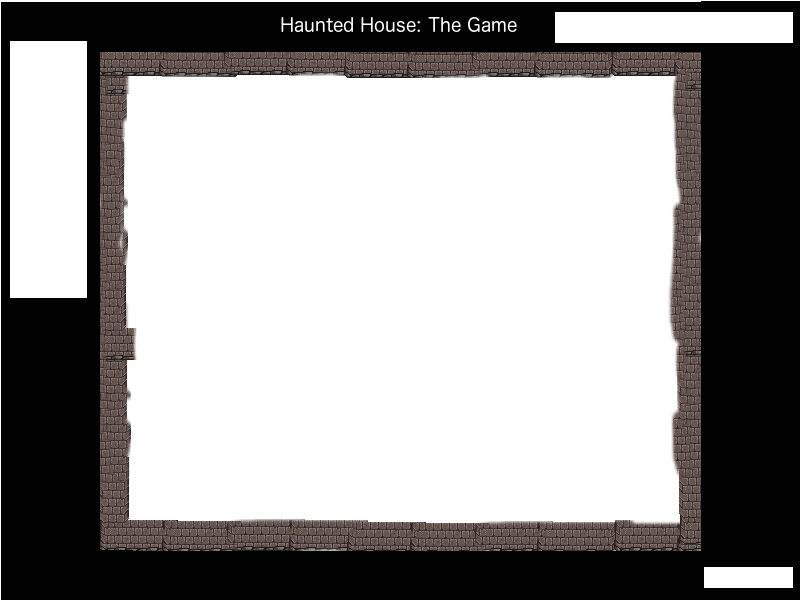
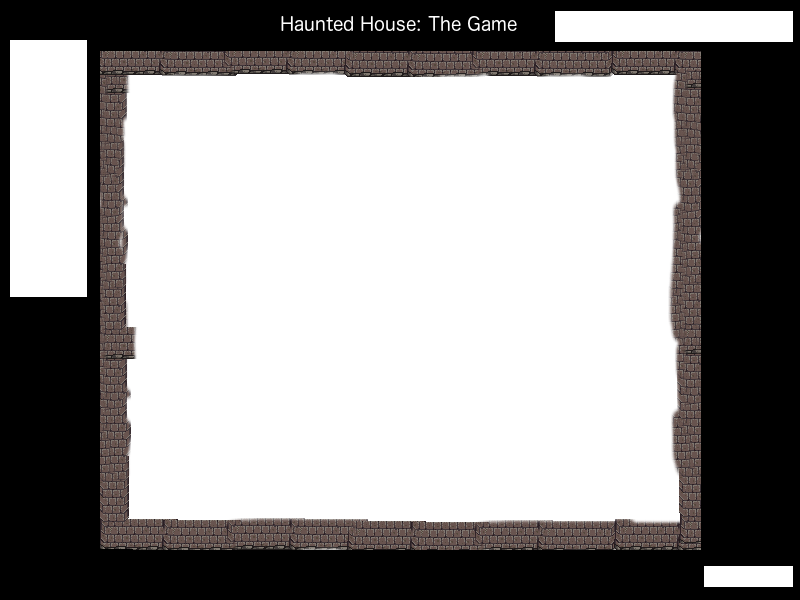
Small minor changes

Changed region(s): [[0.0, 0.0, 0.9688, 0.93]]

diff --git a/hh-game/js/states/Main.js b/hh-game/js/states/Main.js
@@ -44,13 +44,14 @@ export default class Main extends Phaser.State {
         this.player.spawn();
         this.game.player = this.player;
         this.game.add.sprite(0, 0, 'room-0');
-        this.game.add.text(715, 567, VERSION, {font: "20px Arial"});
-        this.speedText = this.game.add.text(25, 65, "S: "+this.player.speed, {font: "20px Arial"});
-        this.displayText = this.game.add.text(25, 115, "H: "+this.player.health, {font: "20px Arial"});
-        this.invText = this.game.add.text(25, 165, this.player.inventoryDisplay, {font: "20px Arial"});
+        this.game.add.text(715, 563, VERSION, {font: "20px Verdana"});
+        this.speedText = this.game.add.text(20, 65, "S: "+this.player.speed, {font: "20px Verdana"});
+        this.displayText = this.game.add.text(20, 115, "H: "+this.player.health, {font: "20px Verdana"});
+        this.inv = this.game.add.text(20, 150, "inv", {font: "20px Verdana"});
+        this.invText = this.game.add.text(20, 170, this.player.inventoryDisplay, {font: "20px Verdana"});
         this.currentRoomJson = this.rooms[0];
         this.room = new Room(this.game, this.currentRoomJson, this.player, null);
-        this.roomDisplay = this.game.add.text(560, 15, this.currentRoomJson.name, {font: "20px Arial"});
+        this.roomDisplay = this.game.add.text(560, 10, this.currentRoomJson.name, {font: "20px Verdana"});
         this.setRoomText(this.currentRoomJson.name);
         this.game.physics.arcade.enable(this.playArea);
     }
@@ -126,7 +127,7 @@ export default class Main extends Phaser.State {
         this.room.showText(this.currentRoomJson.name);
 
         if(this.currentRoomJson.name === 'Library'){
-            var text = this.game.add.text(175, 500, "You hear books talking to you...", { font: "18px Arial", fill: "#ffffff", align: "center" });
+            var text = this.game.add.text(175, 500, "You hear books talking to you...", { font: "18px Verdana", fill: "#ffffff", align: "center" });
             text.anchor.set(0.15);
 
             // this.game.add.tween(text).to({y: 0}, 1500, Phaser.Easing.Linear.None, true);    //this to move the text to the top and fades
@@ -134,7 +135,7 @@ export default class Main extends Phaser.State {
         }
 
         if(this.currentRoomJson.name === 'Basement Exit'){
-            var text = this.game.add.text(175, 500, "Enter the chest if you dare...", { font: "18px Arial", fill: "#ffffff", align: "center" });
+            var text = this.game.add.text(175, 500, "Enter the chest if you dare...", { font: "18px Verdana", fill: "#ffffff", align: "center" });
             text.anchor.set(0.15);
 
             // this.game.add.tween(text).to({y: 0}, 1500, Phaser.Easing.Linear.None, true);    //this to move the text to the top and fades
@@ -146,7 +147,7 @@ export default class Main extends Phaser.State {
     setRoomText(){
         this.roomDisplay.setText(this.currentRoomJson.name);
         this.roomDisplay.fontSize = 25;
-        this.roomDisplay.font = "Arial"
+        this.roomDisplay.font = "Verdana"
 
         this.displayText.setText("H: "+this.player.health);
         this.invText.setText(this.player.inventoryDisplay);

diff --git a/hh-game/js/states/Preload.js b/hh-game/js/states/Preload.js
@@ -8,7 +8,7 @@ class Preload extends Phaser.State {
         // Render loading screen
         this.loadingScreenImage = this.game.add.sprite(this.game.world.centreX, this.game.world.centreY, "title-screen-800-600");
         this.loadingScreenImage.anchor.setTo(0);
-        this.loadingText = this.game.add.text(this.game.world.centerX+100, this.game.world.centerY+200, "Loading...", { font: "25px Arial", fill: "#ffffff", align: "center" });
+        this.loadingText = this.game.add.text(this.game.world.centerX+100, this.game.world.centerY+200, "Loading...", { font: "25px Verdana", fill: "#ffffff", align: "center" });
 
         // Room
         this.game.load.image('room-0', 'img/room-1.png');
@@ -53,7 +53,7 @@ class Preload extends Phaser.State {
 
     create() {
         this.loadingText.destroy();
-        this.finishedLoadingText = this.game.add.text(this.game.world.centerX+100, this.game.world.centerY+200, "Press Space to play", { font: "25px Arial", fill: "#ffffff", align: "center" });
+        this.finishedLoadingText = this.game.add.text(this.game.world.centerX+100, this.game.world.centerY+200, "Press Space to play", { font: "25px Verdana", fill: "#ffffff", align: "center" });
         this.startButton = this.game.input.keyboard.addKey(Phaser.Keyboard.SPACEBAR);
         this.game.input.keyboard.removeKeyCapture(Phaser.Keyboard.SPACEBAR);
         this.game.startGame = function(game) {console.log("preloading"); game.state.start("Main", true, false, this.in_rooms);};
@@ -62,14 +62,14 @@ class Preload extends Phaser.State {
         this.game.random = false;
         this.button.inputEnabled = true;
         this.button.input.useHandCursor = true;
-        this.buttonText = this.game.add.text(595, 65, "Random off", {font: "20px Arial", fill: "#FFFFFF"})
+        this.buttonText = this.game.add.text(595, 65, "Random off", {font: "20px Verdana", fill: "#FFFFFF"})
 
         this.buttonMode = this.game.add.button(580, 110, 'button-large', this.onModeClick, this, 1, 0);
         this.game.mode = 0;
         this.game.click_count = 0;
         this.buttonMode.inputEnabled = true;
         this.buttonMode.input.useHandCursor = true;
-        this.buttonTextMode = this.game.add.text(595, 125, "Normal", {font: "20px Arial", fill: "#FFFFFF"})
+        this.buttonTextMode = this.game.add.text(595, 125, "Normal", {font: "20px Verdana", fill: "#FFFFFF"})
     }
 
     onRandomClick() {

diff --git a/hh-game/index.html b/hh-game/index.html
@@ -12,6 +12,25 @@
         }
         .main-game {
             display: block;
+            margin: 20px;
+            float: left;
+            margin-top: 5px;
+        }
+        .desc {
+            float: right; 
+            word-wrap: break-word; 
+            width: 350px;
+            margin: 20px;
+            margin-top: 5px;
+            border: 2px solid black;
+            padding: 2px;
+            font-family:Verdana, Geneva, Tahoma, sans-serif;
+        }
+        .buttons{
+            display: none;
+        }
+        #game {
+            border: 5px solid black;
         }
     </style>
 </head>
@@ -35,21 +54,29 @@ $.get('layouts/FloorPlan.json', function(data) {
 
 
     </script>
+    <div id="game">
+        <!-- game goes here -->
+    </div>
 </div>
-
+<div class="buttons">
 <input id="btnDebug" type="button" value="debug" />
 <input id="btnReload" value="Reload" onClick="window.location.reload()">
-<div style="float: right; word-wrap: break-word; width: 300px">
-<h1>Relax, it's just a house</h1>
+</div>
+<div class="desc">
+<h1 >Relax, it's just a house</h1>
 <h2>A snakes and ladders inspired, horror house escape game</h2>
 <h3>Controls:</h3>
 <p>Arrow keys for movement, space for ACTION</p>
+<p>Reccomended zoom (for 1920x1080) is 130%. Zoom to fit to screen.</p>
 <h3>Credits:</h3>
 <p>Produced for Aston University Group Project module by:
 <br>Alistair, Amy, Colm, Chloe, Dom, Henry, Tyler and Vishal<p>
 <h3>Music Credits:</h3>
 <p>Moon Shadow Grin by PorchCat
 <br>Ghosts in the wind by Citizen_X0</p>
+<h3>Links:</h3>
+<p><a href="http://domgoodw.in/uni-group-project/">Development blog</a></p>
+<p><a href="https://github.com/domgoodwin/uni-group-project/">Source code</a></p>
 </div>
 </body>
 </html>

diff --git a/hh-game/js/src/Room.js b/hh-game/js/src/Room.js
@@ -236,7 +236,7 @@ export default class Room {
         if(pos == "top"){
             top = -200;
         }
-        var text = this.game.add.text(this.game.world.centerX, this.game.world.centerY+top, textToDisplay, { font: "25px Arial", fill: "#ffffff", align: "center" });
+        var text = this.game.add.text(this.game.world.centerX, this.game.world.centerY+top, textToDisplay, { font: "25px Verdana", fill: "#ffffff", align: "center" });
         text.anchor.set(0.5);
         text.stroke = "#000000";
         text.strokeThickness = 8;

diff --git a/hh-game/js/index.js b/hh-game/js/index.js
@@ -13,7 +13,7 @@ class Game extends Phaser.Game {
 
 	constructor(in_rooms) {
 
-		super(800, 600, Phaser.AUTO);
+		super(800, 600, Phaser.AUTO, "game");
 		this.in_rooms = in_rooms;
         this.state.add('Boot', Boot, false);
 		this.state.add('Preload', Preload, false);
